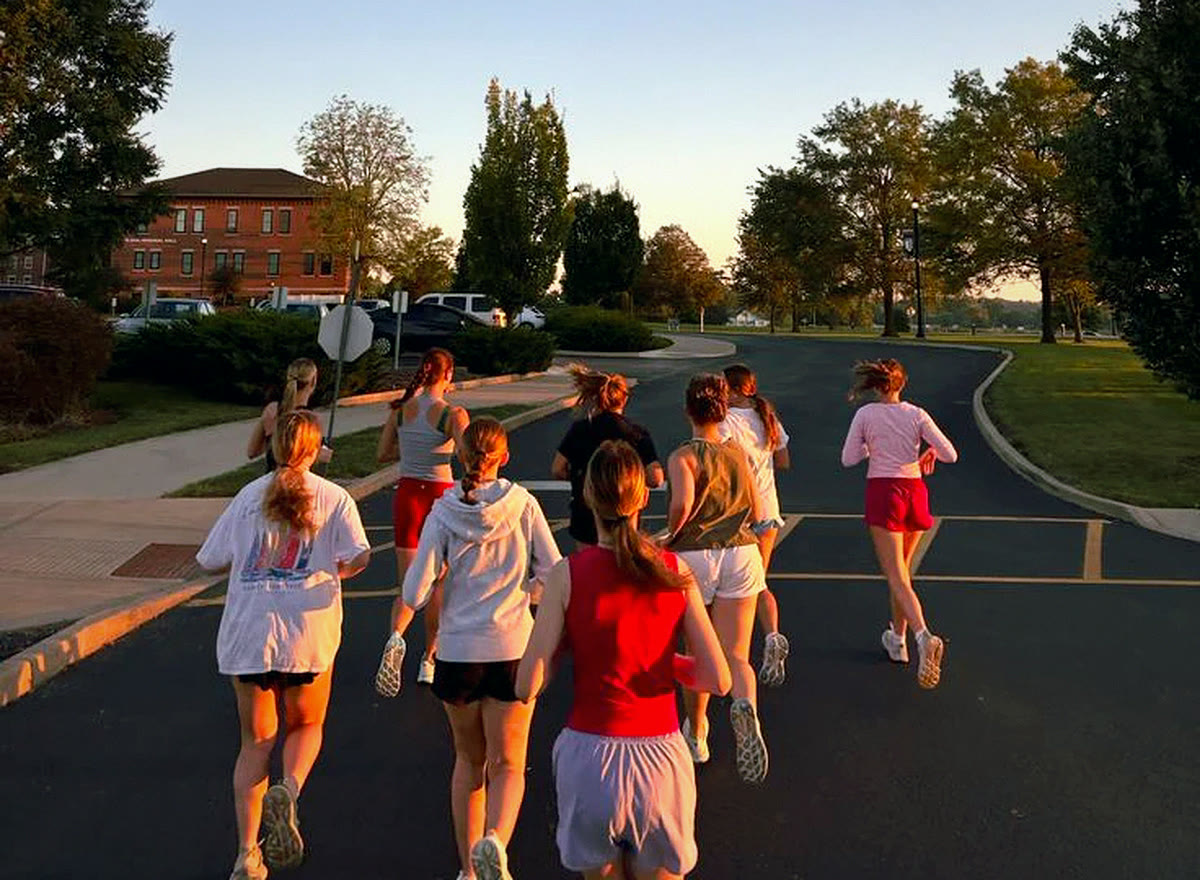
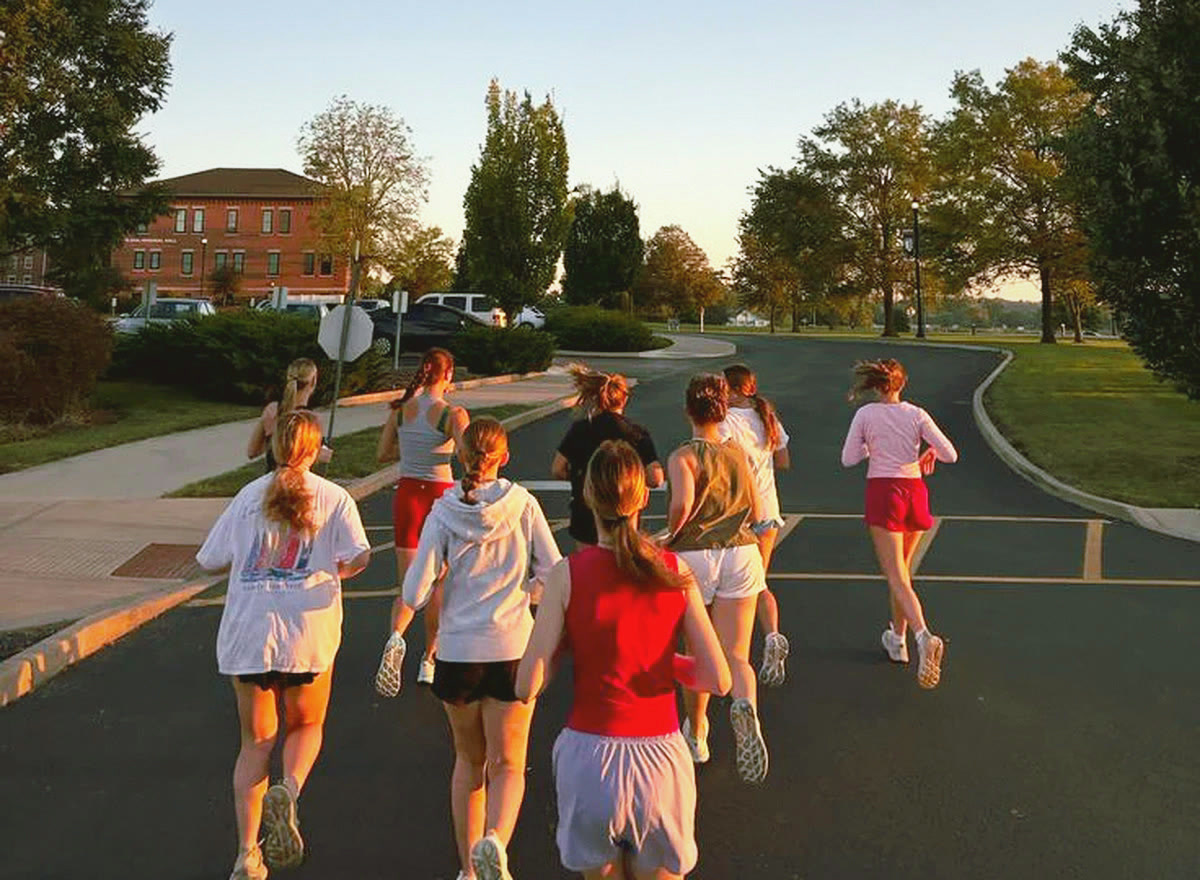
The 300: grade run club photo to match the other cards

diff --git a/community.html b/community.html
@@ -39,7 +39,7 @@
         </article>
         <article class="c-card reveal" data-delay="1">
           <div class="c-card__top c-card__top--photo">
-            <img src="assets/img/run-club.jpg" alt="A group of girls running together down a campus road at sunset" width="1200" height="880" loading="lazy" style="object-position:50% 70%">
+            <img src="assets/img/run-club.jpg?v=2" alt="A group of girls running together down a campus road at sunset" width="1200" height="880" loading="lazy" style="object-position:50% 70%">
           </div>
           <h3 class="c-card__title">Run club</h3>
           <p>Easy miles and hard ones. Show up at your pace, finish with the group, and pray before you split.</p>

diff --git a/sw.js b/sw.js
@@ -2,7 +2,7 @@
 // Installed by present.html. It saves every file listed in sw-files.json, then serves
 // the live site when the network answers quickly and the saved copy when it does not.
 // After changing site files, regenerate sw-files.json and bump VERSION.
-const VERSION = "mae-v43";
+const VERSION = "mae-v44";
 
 self.addEventListener("install", (e) => {
   e.waitUntil((async () => {
